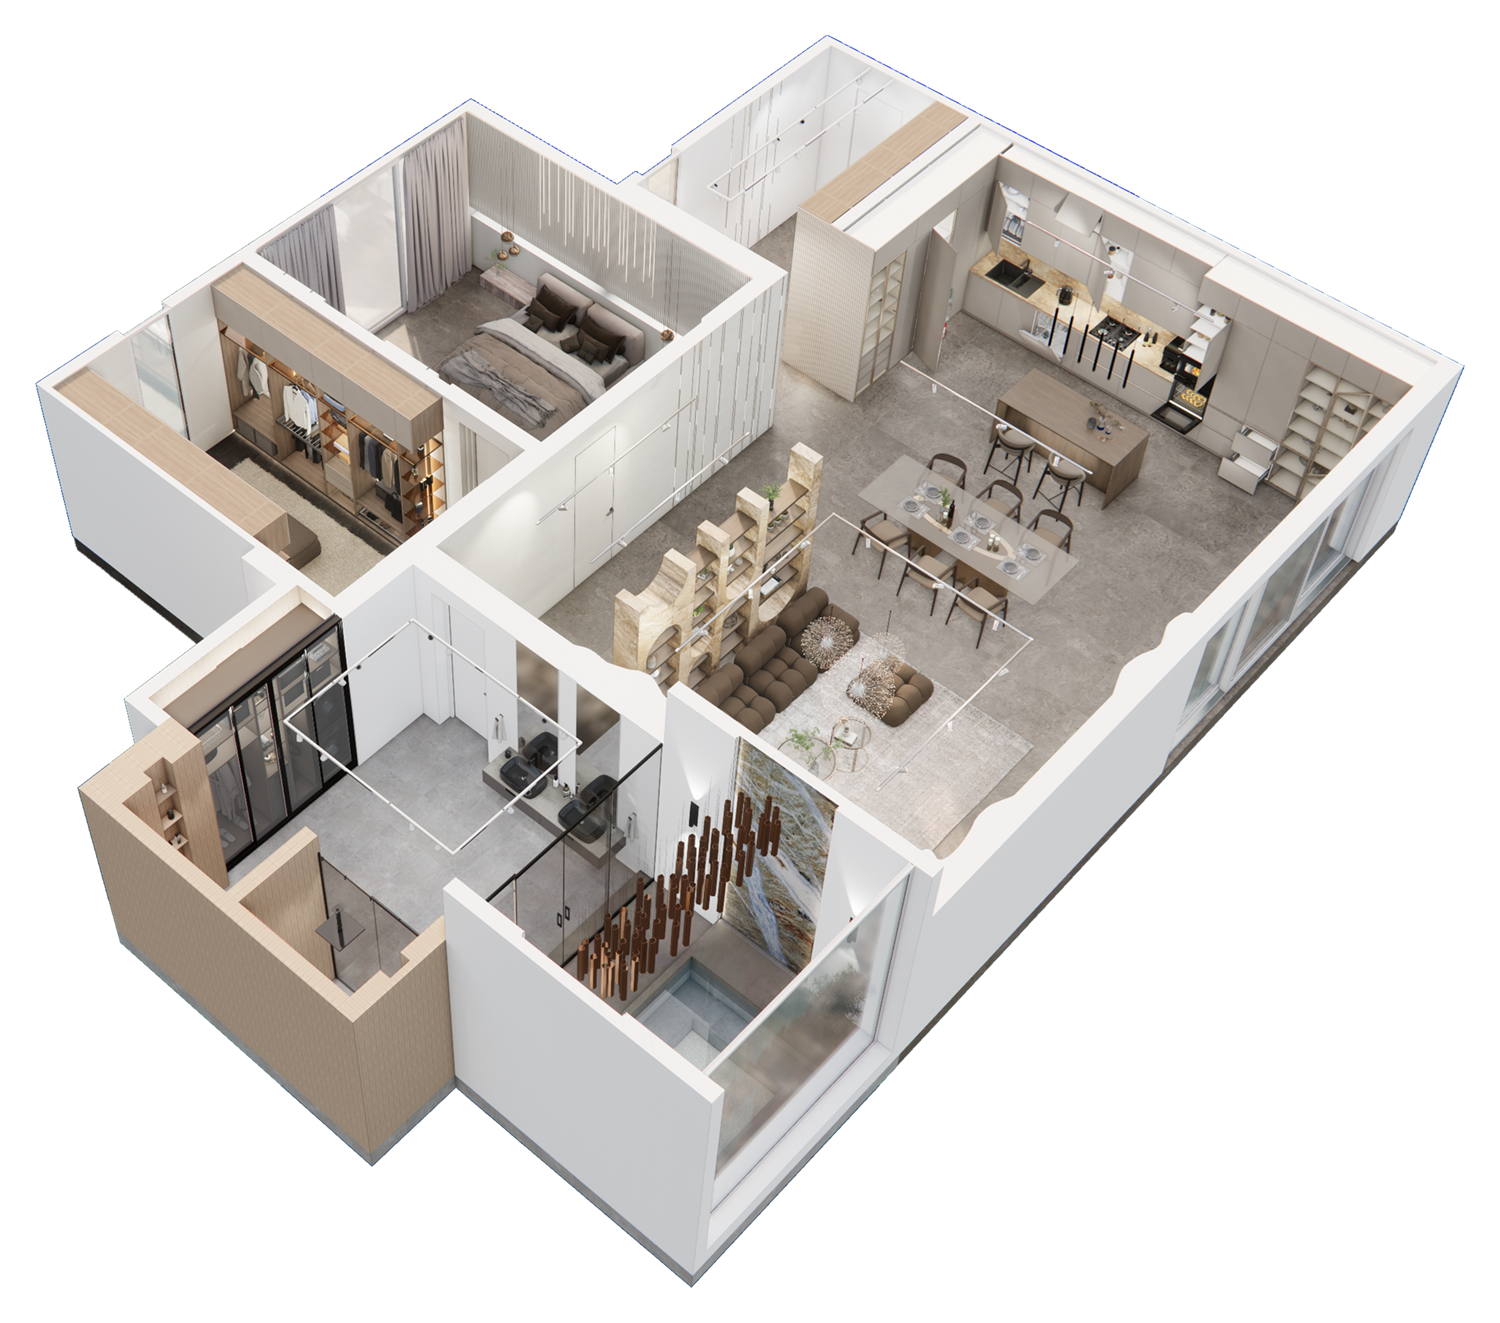
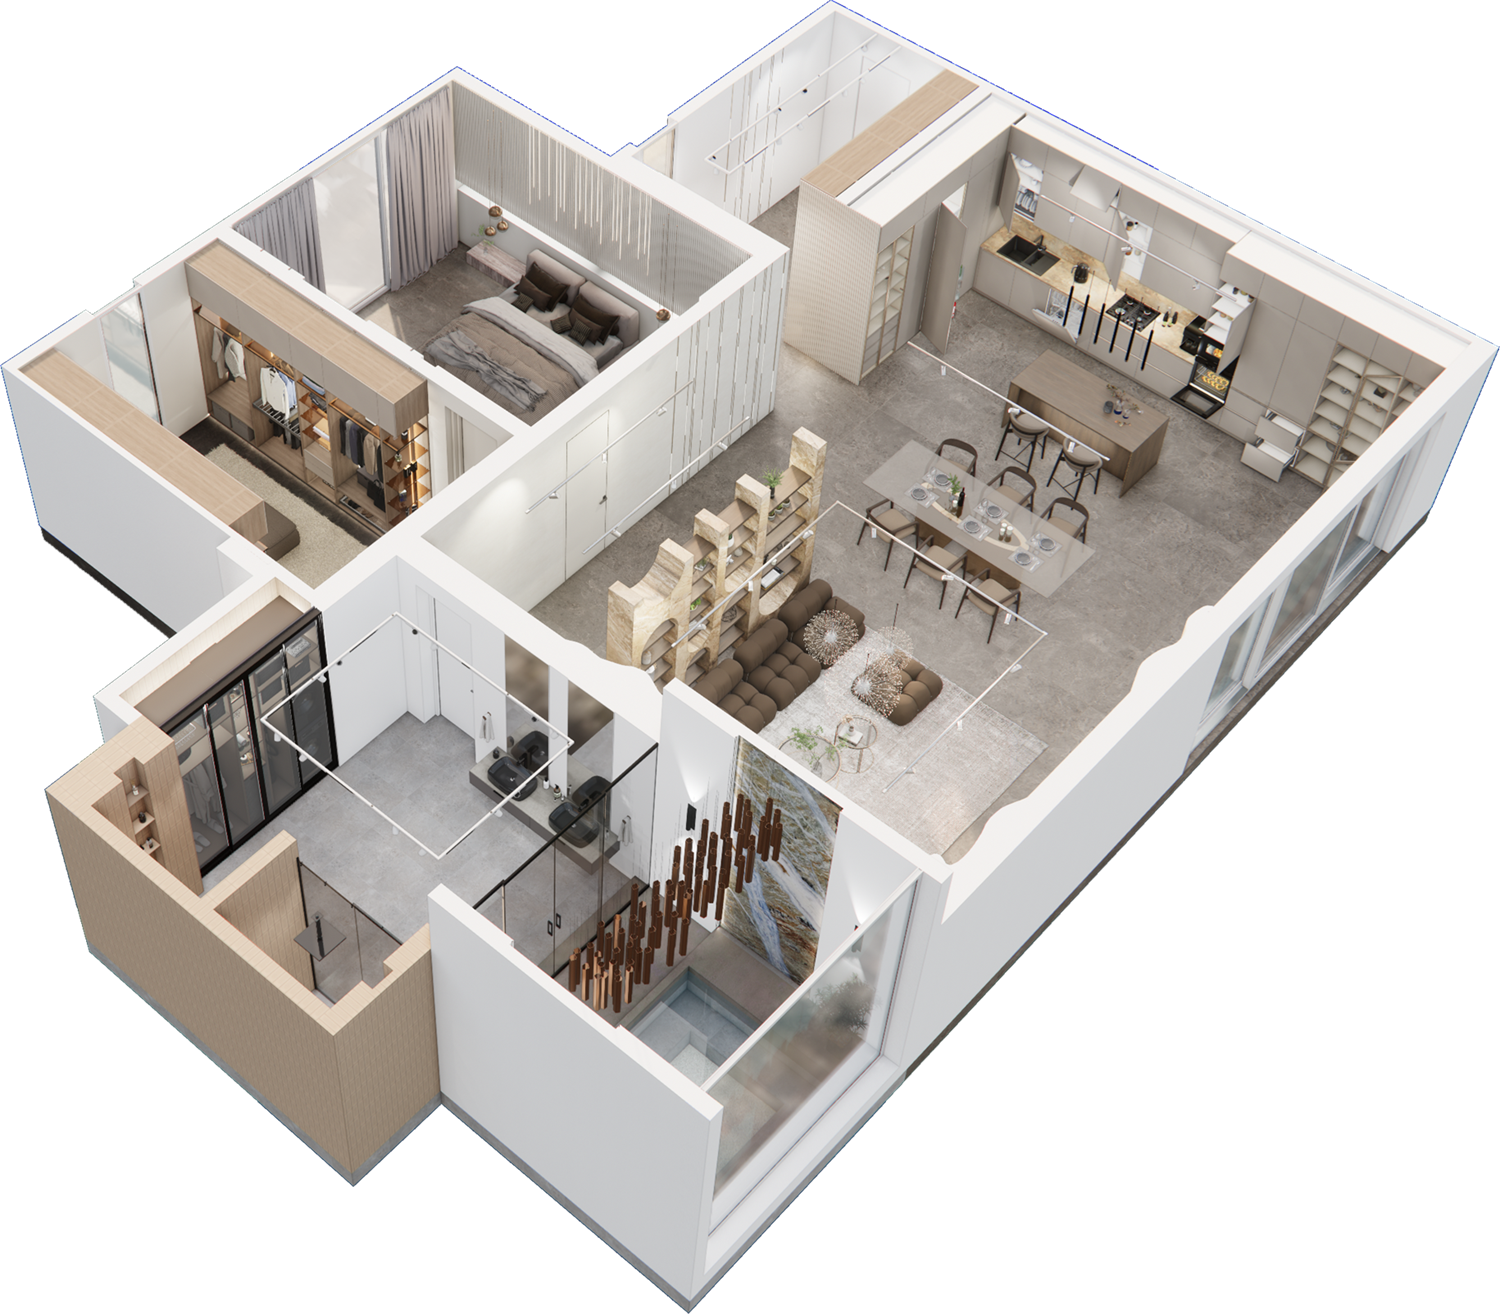
Axonometria tăiată strâns la pereți; poza pe toată lățimea fără limită de înălțime

Changed region(s): [[0.0, 0.0, 1.0, 0.9985]]

diff --git a/stil.css b/stil.css
@@ -245,14 +245,13 @@ button { font: inherit; color: inherit; }
 .galerie button.poza img.intreaga { object-fit: contain; background: #fff; }
 .galerie button.poza:hover img { opacity: 0.92; }
 .galerie .lata { grid-column: 1 / -1; }
-.galerie button.poza.lata img { aspect-ratio: auto; height: auto; max-height: 86vh; object-fit: contain; background: transparent; }
+.galerie button.poza.lata img { aspect-ratio: auto; height: auto; max-height: none; object-fit: contain; background: transparent; }
 .galerie button.poza.lata { background: transparent; }
-.galerie button.poza.lata img.inalta { max-height: 60vh; }
 .galerie .lipsa {
   display: flex; align-items: center; justify-content: center; min-height: 160px; padding: 16px;
   border: 1px dashed var(--nuc); color: var(--nuc); font-size: 14px; text-align: center; border-radius: 2px;
 }
-@media (max-width: 600px) { .galerie { grid-template-columns: minmax(0, 1fr); } .galerie .lata img { max-height: none; } }
+@media (max-width: 600px) { .galerie { grid-template-columns: minmax(0, 1fr); } }
 
 .urmatorul { margin-top: clamp(48px, 7vw, 88px); padding-top: 28px; border-top: 1px solid var(--linie); }
 .urmatorul a { display: grid; grid-template-columns: minmax(0, 1fr) minmax(0, 1fr); gap: 24px; align-items: center; text-decoration: none; }
